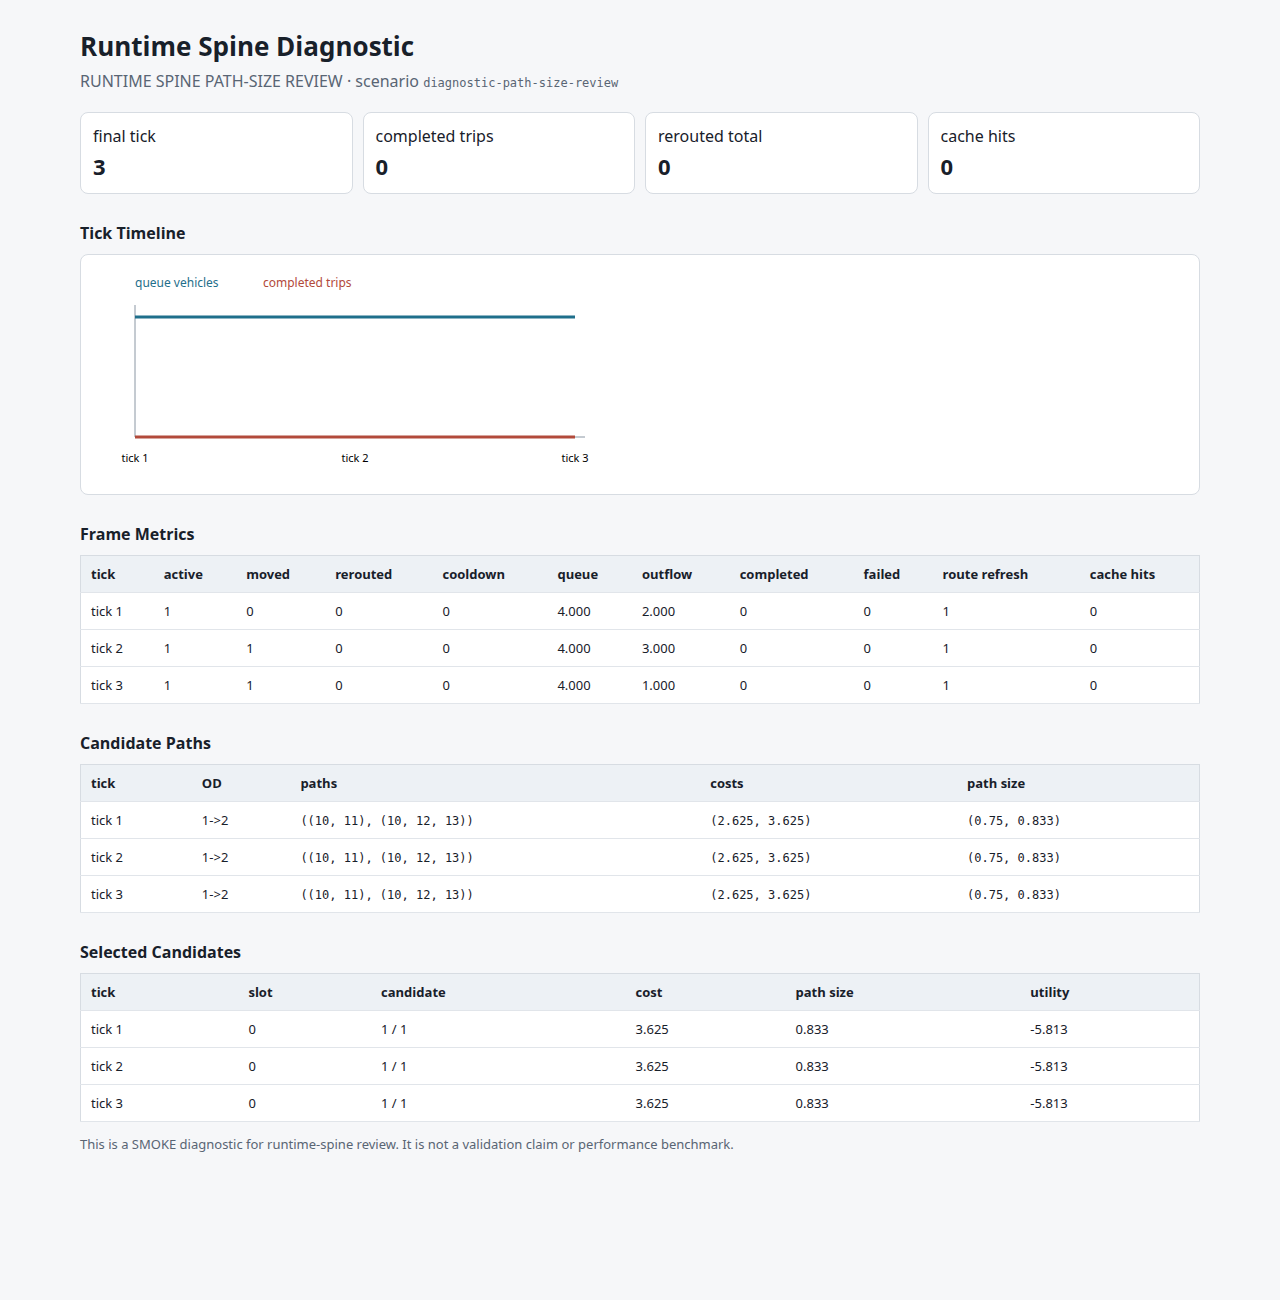
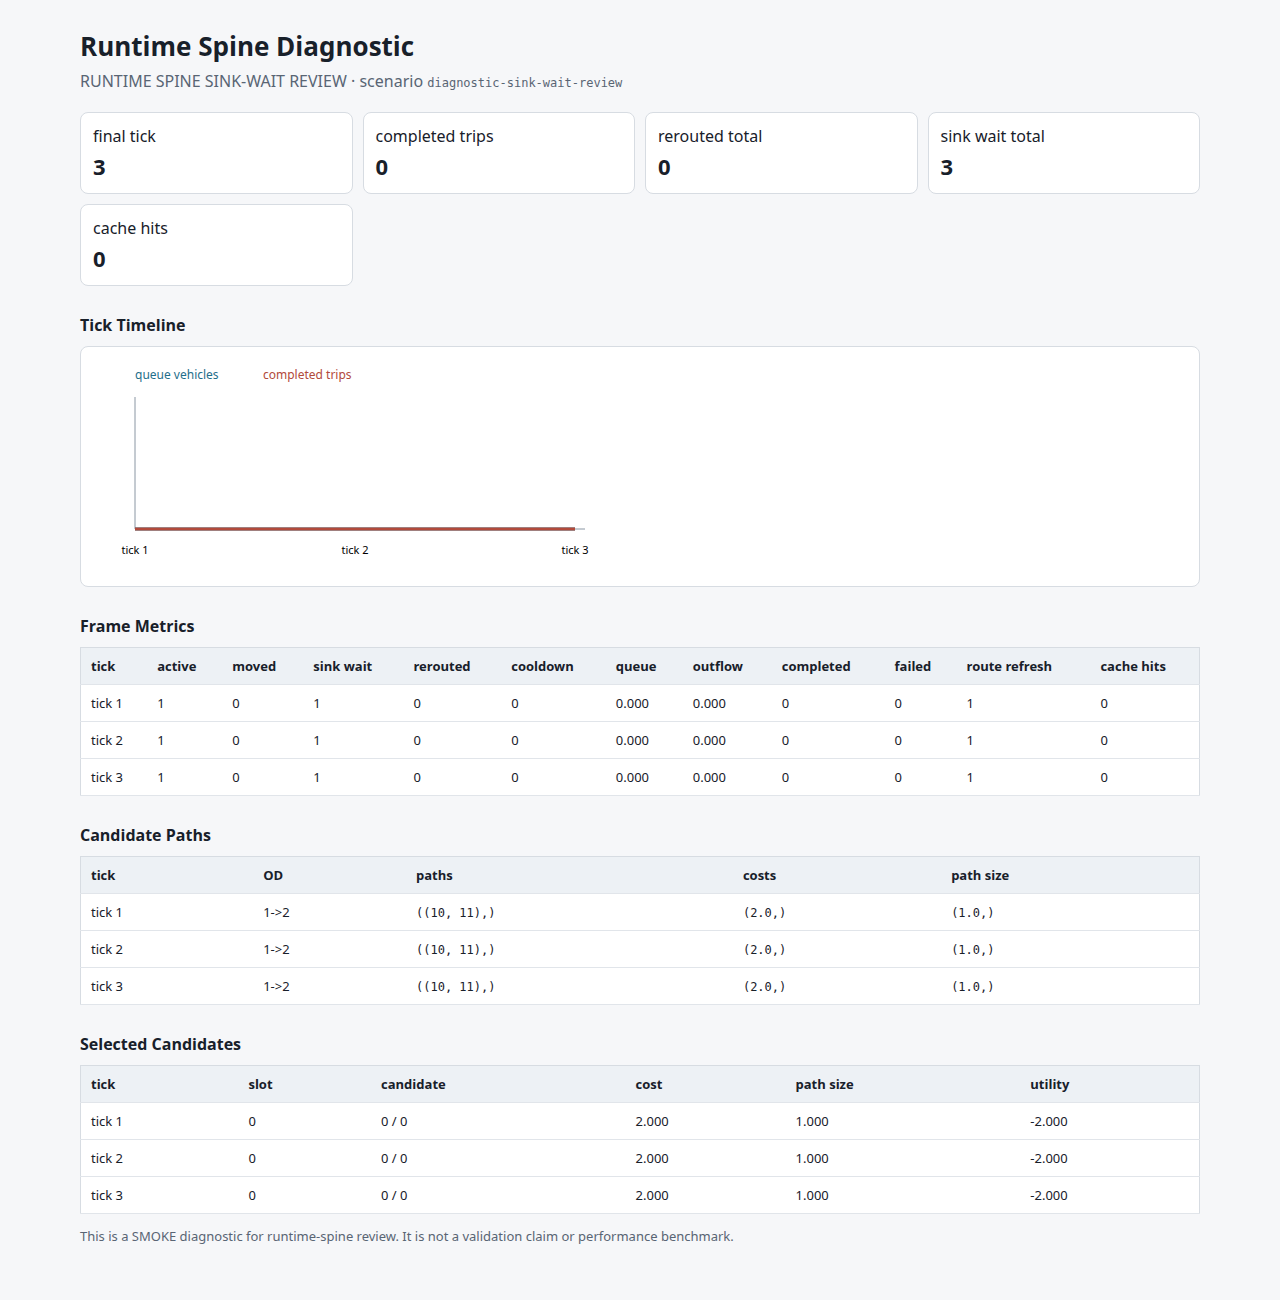
docs: refresh runtime sink-wait diagnostic

diff --git a/artifacts/runtime_spine_review/runtime_spine_diagnostic.html b/artifacts/runtime_spine_review/runtime_spine_diagnostic.html
@@ -23,13 +23,14 @@
   </style>
 </head>
 <body>
-<main data-runtime-diagnostic="{&quot;frames&quot;:[{&quot;active_agent_count&quot;:1,&quot;active_agent_moved_this_tick&quot;:0,&quot;active_agent_reroute_cooldown_this_tick&quot;:0,&quot;active_agent_rerouted_this_tick&quot;:0,&quot;candidate_metadata_by_od&quot;:{&quot;1-&gt;2&quot;:{&quot;candidate_count&quot;:2,&quot;candidate_ids&quot;:[0,1],&quot;candidate_path_costs&quot;:[2.6247345209121704,3.6247345209121704],&quot;candidate_path_size_factors&quot;:[0.75,0.8333333333333333]}},&quot;candidate_paths_by_od&quot;:{&quot;1-&gt;2&quot;:[[10,11],[10,12,13]]},&quot;dynamic_potential_cache_hits_total&quot;:0,&quot;dynamic_potential_recompute_total&quot;:1,&quot;outflow_vehicles_total&quot;:2.0,&quot;queue_vehicles_total&quot;:4.0,&quot;route_candidate_refresh_total&quot;:1,&quot;route_candidate_reuse_total&quot;:0,&quot;sampled_link_congestion&quot;:[{&quot;capacity_flag&quot;:false,&quot;congestion_ratio&quot;:1.0,&quot;effective_capacity&quot;:2.0,&quot;link_id&quot;:10,&quot;queue_vehicles&quot;:2.0,&quot;road_class&quot;:&quot;arterial&quot;,&quot;slowdown_ratio&quot;:1.9995002746582031,&quot;travel_time_cost&quot;:1.9995002746582031},{&quot;capacity_flag&quot;:false,&quot;congestion_ratio&quot;:0.125,&quot;effective_capacity&quot;:8.0,&quot;link_id&quot;:11,&quot;queue_vehicles&quot;:1.0,&quot;road_class&quot;:&quot;arterial&quot;,&quot;slowdown_ratio&quot;:1.1249843835830688,&quot;travel_time_cost&quot;:1.1249843835830688},{&quot;capacity_flag&quot;:false,&quot;congestion_ratio&quot;:0.125,&quot;effective_capacity&quot;:8.0,&quot;link_id&quot;:12,&quot;queue_vehicles&quot;:1.0,&quot;road_class&quot;:&quot;arterial&quot;,&quot;slowdown_ratio&quot;:1.1249843835830688,&quot;travel_time_cost&quot;:1.1249843835830688},{&quot;capacity_flag&quot;:false,&quot;congestion_ratio&quot;:0.0,&quot;effective_capacity&quot;:8.0,&quot;link_id&quot;:13,&quot;queue_vehicles&quot;:0.0,&quot;road_class&quot;:&quot;arterial&quot;,&quot;slowdown_ratio&quot;:1.0,&quot;travel_time_cost&quot;:1.0}],&quot;selected_candidate_slots&quot;:[{&quot;candidate_count&quot;:2,&quot;candidate_id&quot;:1,&quot;candidate_index&quot;:1,&quot;path_cost&quot;:3.6247345209121704,&quot;path_size_factor&quot;:0.8333333333333333,&quot;slot_id&quot;:0,&quot;utility&quot;:-5.812593202439627}],&quot;tick_index&quot;:1,&quot;trip_completed_total&quot;:0,&quot;trip_failed_total&quot;:0},{&quot;active_agent_count&quot;:1,&quot;active_agent_moved_this_tick&quot;:1,&quot;active_agent_reroute_cooldown_this_tick&quot;:0,&quot;active_agent_rerouted_this_tick&quot;:0,&quot;candidate_metadata_by_od&quot;:{&quot;1-&gt;2&quot;:{&quot;candidate_count&quot;:2,&quot;candidate_ids&quot;:[0,1],&quot;candidate_path_costs&quot;:[2.6247345209121704,3.6247345209121704],&quot;candidate_path_size_factors&quot;:[0.75,0.8333333333333333]}},&quot;candidate_paths_by_od&quot;:{&quot;1-&gt;2&quot;:[[10,11],[10,12,13]]},&quot;dynamic_potential_cache_hits_total&quot;:0,&quot;dynamic_potential_recompute_total&quot;:1,&quot;outflow_vehicles_total&quot;:3.0,&quot;queue_vehicles_total&quot;:4.0,&quot;route_candidate_refresh_total&quot;:1,&quot;route_candidate_reuse_total&quot;:1,&quot;sampled_link_congestion&quot;:[{&quot;capacity_flag&quot;:false,&quot;congestion_ratio&quot;:0.0,&quot;effective_capacity&quot;:2.0,&quot;link_id&quot;:10,&quot;queue_vehicles&quot;:0.0,&quot;road_class&quot;:&quot;arterial&quot;,&quot;slowdown_ratio&quot;:1.0,&quot;travel_time_cost&quot;:1.0},{&quot;capacity_flag&quot;:false,&quot;congestion_ratio&quot;:0.25,&quot;effective_capacity&quot;:8.0,&quot;link_id&quot;:11,&quot;queue_vehicles&quot;:2.0,&quot;road_class&quot;:&quot;arterial&quot;,&quot;slowdown_ratio&quot;:1.2499687671661377,&quot;travel_time_cost&quot;:1.2499687671661377},{&quot;capacity_flag&quot;:false,&quot;congestion_ratio&quot;:0.125,&quot;effective_capacity&quot;:8.0,&quot;link_id&quot;:12,&quot;queue_vehicles&quot;:1.0,&quot;road_class&quot;:&quot;arterial&quot;,&quot;slowdown_ratio&quot;:1.1249843835830688,&quot;travel_time_cost&quot;:1.1249843835830688},{&quot;capacity_flag&quot;:false,&quot;congestion_ratio&quot;:0.125,&quot;effective_capacity&quot;:8.0,&quot;link_id&quot;:13,&quot;queue_vehicles&quot;:1.0,&quot;road_class&quot;:&quot;arterial&quot;,&quot;slowdown_ratio&quot;:1.1249843835830688,&quot;travel_time_cost&quot;:1.1249843835830688}],&quot;selected_candidate_slots&quot;:[{&quot;candidate_count&quot;:2,&quot;candidate_id&quot;:1,&quot;candidate_index&quot;:1,&quot;path_cost&quot;:3.6247345209121704,&quot;path_size_factor&quot;:0.8333333333333333,&quot;slot_id&quot;:0,&quot;utility&quot;:-5.812593202439627}],&quot;tick_index&quot;:2,&quot;trip_completed_total&quot;:0,&quot;trip_failed_total&quot;:0},{&quot;active_agent_count&quot;:1,&quot;active_agent_moved_this_tick&quot;:1,&quot;active_agent_reroute_cooldown_this_tick&quot;:0,&quot;active_agent_rerouted_this_tick&quot;:0,&quot;candidate_metadata_by_od&quot;:{&quot;1-&gt;2&quot;:{&quot;candidate_count&quot;:2,&quot;candidate_ids&quot;:[0,1],&quot;candidate_path_costs&quot;:[2.6247345209121704,3.6247345209121704],&quot;candidate_path_size_factors&quot;:[0.75,0.8333333333333333]}},&quot;candidate_paths_by_od&quot;:{&quot;1-&gt;2&quot;:[[10,11],[10,12,13]]},&quot;dynamic_potential_cache_hits_total&quot;:0,&quot;dynamic_potential_recompute_total&quot;:1,&quot;outflow_vehicles_total&quot;:1.0,&quot;queue_vehicles_total&quot;:4.0,&quot;route_candidate_refresh_total&quot;:1,&quot;route_candidate_reuse_total&quot;:2,&quot;sampled_link_congestion&quot;:[{&quot;capacity_flag&quot;:false,&quot;congestion_ratio&quot;:0.0,&quot;effective_capacity&quot;:2.0,&quot;link_id&quot;:10,&quot;queue_vehicles&quot;:0.0,&quot;road_class&quot;:&quot;arterial&quot;,&quot;slowdown_ratio&quot;:1.0,&quot;travel_time_cost&quot;:1.0},{&quot;capacity_flag&quot;:false,&quot;congestion_ratio&quot;:0.25,&quot;effective_capacity&quot;:8.0,&quot;link_id&quot;:11,&quot;queue_vehicles&quot;:2.0,&quot;road_class&quot;:&quot;arterial&quot;,&quot;slowdown_ratio&quot;:1.2499687671661377,&quot;travel_time_cost&quot;:1.2499687671661377},{&quot;capacity_flag&quot;:false,&quot;congestion_ratio&quot;:0.0,&quot;effective_capacity&quot;:8.0,&quot;link_id&quot;:12,&quot;queue_vehicles&quot;:0.0,&quot;road_class&quot;:&quot;arterial&quot;,&quot;slowdown_ratio&quot;:1.0,&quot;travel_time_cost&quot;:1.0},{&quot;capacity_flag&quot;:false,&quot;congestion_ratio&quot;:0.25,&quot;effective_capacity&quot;:8.0,&quot;link_id&quot;:13,&quot;queue_vehicles&quot;:2.0,&quot;road_class&quot;:&quot;arterial&quot;,&quot;slowdown_ratio&quot;:1.2499687671661377,&quot;travel_time_cost&quot;:1.2499687671661377}],&quot;selected_candidate_slots&quot;:[{&quot;candidate_count&quot;:2,&quot;candidate_id&quot;:1,&quot;candidate_index&quot;:1,&quot;path_cost&quot;:3.6247345209121704,&quot;path_size_factor&quot;:0.8333333333333333,&quot;slot_id&quot;:0,&quot;utility&quot;:-5.812593202439627}],&quot;tick_index&quot;:3,&quot;trip_completed_total&quot;:0,&quot;trip_failed_total&quot;:0}],&quot;label&quot;:&quot;RUNTIME SPINE PATH-SIZE REVIEW&quot;,&quot;scenario_id&quot;:&quot;diagnostic-path-size-review&quot;,&quot;summary&quot;:{&quot;active_agent_reroute_cooldown_this_tick&quot;:0,&quot;active_agent_reroute_cooldown_total&quot;:0,&quot;active_agent_rerouted_this_tick&quot;:0,&quot;active_agent_rerouted_total&quot;:0,&quot;dynamic_potential_cache_hits_total&quot;:0,&quot;dynamic_potential_recompute_total&quot;:1,&quot;final_active_agents&quot;:1,&quot;final_completed_trips_total&quot;:0,&quot;final_failed_trips_total&quot;:0,&quot;final_tick&quot;:3,&quot;frame_count&quot;:3,&quot;max_queue_vehicles_total&quot;:4.0,&quot;route_candidate_refresh_total&quot;:1,&quot;route_candidate_reuse_total&quot;:2}}">
+<main data-runtime-diagnostic="{&quot;frames&quot;:[{&quot;active_agent_count&quot;:1,&quot;active_agent_moved_this_tick&quot;:0,&quot;active_agent_reroute_cooldown_this_tick&quot;:0,&quot;active_agent_rerouted_this_tick&quot;:0,&quot;active_agent_sink_wait_this_tick&quot;:1,&quot;candidate_metadata_by_od&quot;:{&quot;1-&gt;2&quot;:{&quot;candidate_count&quot;:1,&quot;candidate_ids&quot;:[0],&quot;candidate_path_costs&quot;:[2.0],&quot;candidate_path_size_factors&quot;:[1.0]}},&quot;candidate_paths_by_od&quot;:{&quot;1-&gt;2&quot;:[[10,11]]},&quot;dynamic_potential_cache_hits_total&quot;:0,&quot;dynamic_potential_recompute_total&quot;:1,&quot;outflow_vehicles_total&quot;:0.0,&quot;queue_vehicles_total&quot;:0.0,&quot;route_candidate_refresh_total&quot;:1,&quot;route_candidate_reuse_total&quot;:0,&quot;sampled_link_congestion&quot;:[{&quot;capacity_flag&quot;:false,&quot;congestion_ratio&quot;:0.0,&quot;effective_capacity&quot;:2.0,&quot;link_id&quot;:10,&quot;queue_vehicles&quot;:0.0,&quot;road_class&quot;:&quot;arterial&quot;,&quot;slowdown_ratio&quot;:1.0,&quot;travel_time_cost&quot;:1.0},{&quot;capacity_flag&quot;:false,&quot;congestion_ratio&quot;:0.0,&quot;effective_capacity&quot;:0.4000000059604645,&quot;link_id&quot;:11,&quot;queue_vehicles&quot;:0.0,&quot;road_class&quot;:&quot;arterial&quot;,&quot;slowdown_ratio&quot;:1.0,&quot;travel_time_cost&quot;:1.0}],&quot;selected_candidate_slots&quot;:[{&quot;candidate_count&quot;:1,&quot;candidate_id&quot;:0,&quot;candidate_index&quot;:0,&quot;path_cost&quot;:2.0,&quot;path_size_factor&quot;:1.0,&quot;slot_id&quot;:0,&quot;utility&quot;:-2.0}],&quot;tick_index&quot;:1,&quot;trip_completed_total&quot;:0,&quot;trip_failed_total&quot;:0},{&quot;active_agent_count&quot;:1,&quot;active_agent_moved_this_tick&quot;:0,&quot;active_agent_reroute_cooldown_this_tick&quot;:0,&quot;active_agent_rerouted_this_tick&quot;:0,&quot;active_agent_sink_wait_this_tick&quot;:1,&quot;candidate_metadata_by_od&quot;:{&quot;1-&gt;2&quot;:{&quot;candidate_count&quot;:1,&quot;candidate_ids&quot;:[0],&quot;candidate_path_costs&quot;:[2.0],&quot;candidate_path_size_factors&quot;:[1.0]}},&quot;candidate_paths_by_od&quot;:{&quot;1-&gt;2&quot;:[[10,11]]},&quot;dynamic_potential_cache_hits_total&quot;:0,&quot;dynamic_potential_recompute_total&quot;:1,&quot;outflow_vehicles_total&quot;:0.0,&quot;queue_vehicles_total&quot;:0.0,&quot;route_candidate_refresh_total&quot;:1,&quot;route_candidate_reuse_total&quot;:1,&quot;sampled_link_congestion&quot;:[{&quot;capacity_flag&quot;:false,&quot;congestion_ratio&quot;:0.0,&quot;effective_capacity&quot;:2.0,&quot;link_id&quot;:10,&quot;queue_vehicles&quot;:0.0,&quot;road_class&quot;:&quot;arterial&quot;,&quot;slowdown_ratio&quot;:1.0,&quot;travel_time_cost&quot;:1.0},{&quot;capacity_flag&quot;:false,&quot;congestion_ratio&quot;:0.0,&quot;effective_capacity&quot;:0.4000000059604645,&quot;link_id&quot;:11,&quot;queue_vehicles&quot;:0.0,&quot;road_class&quot;:&quot;arterial&quot;,&quot;slowdown_ratio&quot;:1.0,&quot;travel_time_cost&quot;:1.0}],&quot;selected_candidate_slots&quot;:[{&quot;candidate_count&quot;:1,&quot;candidate_id&quot;:0,&quot;candidate_index&quot;:0,&quot;path_cost&quot;:2.0,&quot;path_size_factor&quot;:1.0,&quot;slot_id&quot;:0,&quot;utility&quot;:-2.0}],&quot;tick_index&quot;:2,&quot;trip_completed_total&quot;:0,&quot;trip_failed_total&quot;:0},{&quot;active_agent_count&quot;:1,&quot;active_agent_moved_this_tick&quot;:0,&quot;active_agent_reroute_cooldown_this_tick&quot;:0,&quot;active_agent_rerouted_this_tick&quot;:0,&quot;active_agent_sink_wait_this_tick&quot;:1,&quot;candidate_metadata_by_od&quot;:{&quot;1-&gt;2&quot;:{&quot;candidate_count&quot;:1,&quot;candidate_ids&quot;:[0],&quot;candidate_path_costs&quot;:[2.0],&quot;candidate_path_size_factors&quot;:[1.0]}},&quot;candidate_paths_by_od&quot;:{&quot;1-&gt;2&quot;:[[10,11]]},&quot;dynamic_potential_cache_hits_total&quot;:0,&quot;dynamic_potential_recompute_total&quot;:1,&quot;outflow_vehicles_total&quot;:0.0,&quot;queue_vehicles_total&quot;:0.0,&quot;route_candidate_refresh_total&quot;:1,&quot;route_candidate_reuse_total&quot;:2,&quot;sampled_link_congestion&quot;:[{&quot;capacity_flag&quot;:false,&quot;congestion_ratio&quot;:0.0,&quot;effective_capacity&quot;:2.0,&quot;link_id&quot;:10,&quot;queue_vehicles&quot;:0.0,&quot;road_class&quot;:&quot;arterial&quot;,&quot;slowdown_ratio&quot;:1.0,&quot;travel_time_cost&quot;:1.0},{&quot;capacity_flag&quot;:false,&quot;congestion_ratio&quot;:0.0,&quot;effective_capacity&quot;:0.4000000059604645,&quot;link_id&quot;:11,&quot;queue_vehicles&quot;:0.0,&quot;road_class&quot;:&quot;arterial&quot;,&quot;slowdown_ratio&quot;:1.0,&quot;travel_time_cost&quot;:1.0}],&quot;selected_candidate_slots&quot;:[{&quot;candidate_count&quot;:1,&quot;candidate_id&quot;:0,&quot;candidate_index&quot;:0,&quot;path_cost&quot;:2.0,&quot;path_size_factor&quot;:1.0,&quot;slot_id&quot;:0,&quot;utility&quot;:-2.0}],&quot;tick_index&quot;:3,&quot;trip_completed_total&quot;:0,&quot;trip_failed_total&quot;:0}],&quot;label&quot;:&quot;RUNTIME SPINE SINK-WAIT REVIEW&quot;,&quot;scenario_id&quot;:&quot;diagnostic-sink-wait-review&quot;,&quot;summary&quot;:{&quot;active_agent_reroute_cooldown_this_tick&quot;:0,&quot;active_agent_reroute_cooldown_total&quot;:0,&quot;active_agent_rerouted_this_tick&quot;:0,&quot;active_agent_rerouted_total&quot;:0,&quot;active_agent_sink_wait_this_tick&quot;:1,&quot;active_agent_sink_wait_total&quot;:3,&quot;dynamic_potential_cache_hits_total&quot;:0,&quot;dynamic_potential_recompute_total&quot;:1,&quot;final_active_agents&quot;:1,&quot;final_completed_trips_total&quot;:0,&quot;final_failed_trips_total&quot;:0,&quot;final_tick&quot;:3,&quot;frame_count&quot;:3,&quot;max_queue_vehicles_total&quot;:0.0,&quot;route_candidate_refresh_total&quot;:1,&quot;route_candidate_reuse_total&quot;:2}}">
   <h1>Runtime Spine Diagnostic</h1>
-  <div class="meta">RUNTIME SPINE PATH-SIZE REVIEW · scenario <code>diagnostic-path-size-review</code></div>
+  <div class="meta">RUNTIME SPINE SINK-WAIT REVIEW · scenario <code>diagnostic-sink-wait-review</code></div>
   <section class="grid">
     <div class="metric">final tick<strong>3</strong></div>
     <div class="metric">completed trips<strong>0</strong></div>
     <div class="metric">rerouted total<strong>0</strong></div>
+    <div class="metric">sink wait total<strong>3</strong></div>
     <div class="metric">cache hits<strong>0</strong></div>
   </section>
   <h2>Tick Timeline</h2>
@@ -37,7 +38,7 @@
   <rect x="0" y="0" width="520" height="210" fill="#ffffff" />
   <line x1="42" y1="38" x2="42" y2="170" stroke="#8a96a3" />
   <line x1="42" y1="170" x2="492" y2="170" stroke="#8a96a3" />
-  <polyline fill="none" stroke="#1f6f8b" stroke-width="3" points="42.0,50.0 262.0,50.0 482.0,50.0" />
+  <polyline fill="none" stroke="#1f6f8b" stroke-width="3" points="42.0,170.0 262.0,170.0 482.0,170.0" />
   <polyline fill="none" stroke="#b24a3b" stroke-width="3" points="42.0,170.0 262.0,170.0 482.0,170.0" />
   <text x="42" y="20" font-size="12" fill="#1f6f8b">queue vehicles</text>
   <text x="170" y="20" font-size="12" fill="#b24a3b">completed trips</text>
@@ -47,24 +48,24 @@
 </svg></div>
   <h2>Frame Metrics</h2>
   <table>
-    <thead><tr><th>tick</th><th>active</th><th>moved</th><th>rerouted</th><th>cooldown</th><th>queue</th><th>outflow</th><th>completed</th><th>failed</th><th>route refresh</th><th>cache hits</th></tr></thead>
-    <tbody><tr><td>tick 1</td><td>1</td><td>0</td><td>0</td><td>0</td><td>4.000</td><td>2.000</td><td>0</td><td>0</td><td>1</td><td>0</td></tr>
-<tr><td>tick 2</td><td>1</td><td>1</td><td>0</td><td>0</td><td>4.000</td><td>3.000</td><td>0</td><td>0</td><td>1</td><td>0</td></tr>
-<tr><td>tick 3</td><td>1</td><td>1</td><td>0</td><td>0</td><td>4.000</td><td>1.000</td><td>0</td><td>0</td><td>1</td><td>0</td></tr></tbody>
+    <thead><tr><th>tick</th><th>active</th><th>moved</th><th>sink wait</th><th>rerouted</th><th>cooldown</th><th>queue</th><th>outflow</th><th>completed</th><th>failed</th><th>route refresh</th><th>cache hits</th></tr></thead>
+    <tbody><tr><td>tick 1</td><td>1</td><td>0</td><td>1</td><td>0</td><td>0</td><td>0.000</td><td>0.000</td><td>0</td><td>0</td><td>1</td><td>0</td></tr>
+<tr><td>tick 2</td><td>1</td><td>0</td><td>1</td><td>0</td><td>0</td><td>0.000</td><td>0.000</td><td>0</td><td>0</td><td>1</td><td>0</td></tr>
+<tr><td>tick 3</td><td>1</td><td>0</td><td>1</td><td>0</td><td>0</td><td>0.000</td><td>0.000</td><td>0</td><td>0</td><td>1</td><td>0</td></tr></tbody>
   </table>
   <h2>Candidate Paths</h2>
   <table>
     <thead><tr><th>tick</th><th>OD</th><th>paths</th><th>costs</th><th>path size</th></tr></thead>
-    <tbody><tr><td>tick 1</td><td>1-&gt;2</td><td><code>((10, 11), (10, 12, 13))</code></td><td><code>(2.625, 3.625)</code></td><td><code>(0.75, 0.833)</code></td></tr>
-<tr><td>tick 2</td><td>1-&gt;2</td><td><code>((10, 11), (10, 12, 13))</code></td><td><code>(2.625, 3.625)</code></td><td><code>(0.75, 0.833)</code></td></tr>
-<tr><td>tick 3</td><td>1-&gt;2</td><td><code>((10, 11), (10, 12, 13))</code></td><td><code>(2.625, 3.625)</code></td><td><code>(0.75, 0.833)</code></td></tr></tbody>
+    <tbody><tr><td>tick 1</td><td>1-&gt;2</td><td><code>((10, 11),)</code></td><td><code>(2.0,)</code></td><td><code>(1.0,)</code></td></tr>
+<tr><td>tick 2</td><td>1-&gt;2</td><td><code>((10, 11),)</code></td><td><code>(2.0,)</code></td><td><code>(1.0,)</code></td></tr>
+<tr><td>tick 3</td><td>1-&gt;2</td><td><code>((10, 11),)</code></td><td><code>(2.0,)</code></td><td><code>(1.0,)</code></td></tr></tbody>
   </table>
   <h2>Selected Candidates</h2>
   <table>
     <thead><tr><th>tick</th><th>slot</th><th>candidate</th><th>cost</th><th>path size</th><th>utility</th></tr></thead>
-    <tbody><tr><td>tick 1</td><td>0</td><td>1 / 1</td><td>3.625</td><td>0.833</td><td>-5.813</td></tr>
-<tr><td>tick 2</td><td>0</td><td>1 / 1</td><td>3.625</td><td>0.833</td><td>-5.813</td></tr>
-<tr><td>tick 3</td><td>0</td><td>1 / 1</td><td>3.625</td><td>0.833</td><td>-5.813</td></tr></tbody>
+    <tbody><tr><td>tick 1</td><td>0</td><td>0 / 0</td><td>2.000</td><td>1.000</td><td>-2.000</td></tr>
+<tr><td>tick 2</td><td>0</td><td>0 / 0</td><td>2.000</td><td>1.000</td><td>-2.000</td></tr>
+<tr><td>tick 3</td><td>0</td><td>0 / 0</td><td>2.000</td><td>1.000</td><td>-2.000</td></tr></tbody>
   </table>
   <p class="note">This is a SMOKE diagnostic for runtime-spine review. It is not a validation claim or performance benchmark.</p>
 </main>
